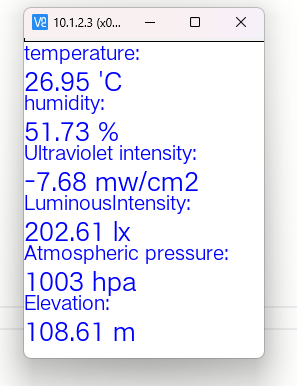
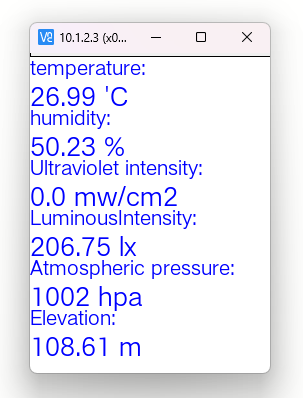
add unihiker support

Changed region(s): [[0.0606, 0.0, 0.9091, 0.9637], [0.4848, 0.0311, 0.5455, 0.0622]]

diff --git a/python/unihiker/DFRobot_Environmental_Sensor.py b/python/unihiker/DFRobot_Environmental_Sensor.py
@@ -139,6 +139,10 @@ class DFRobot_Environmental_Sensor():
       elif self._uart_i2c == UART_MODE:
         data = rbuf[0]
       outputVoltage = 3.0 * data/1024
+      if outputVoltage <= 0.99:
+        outputVoltage = 0.99
+      elif outputVoltage>=2.99:
+        outputVoltage = 2.99
       ultraviolet = (outputVoltage - 0.99) * (15.0 - 0.0) / (2.9 - 0.99) + 0.0 
     return round(ultraviolet,2)
       
